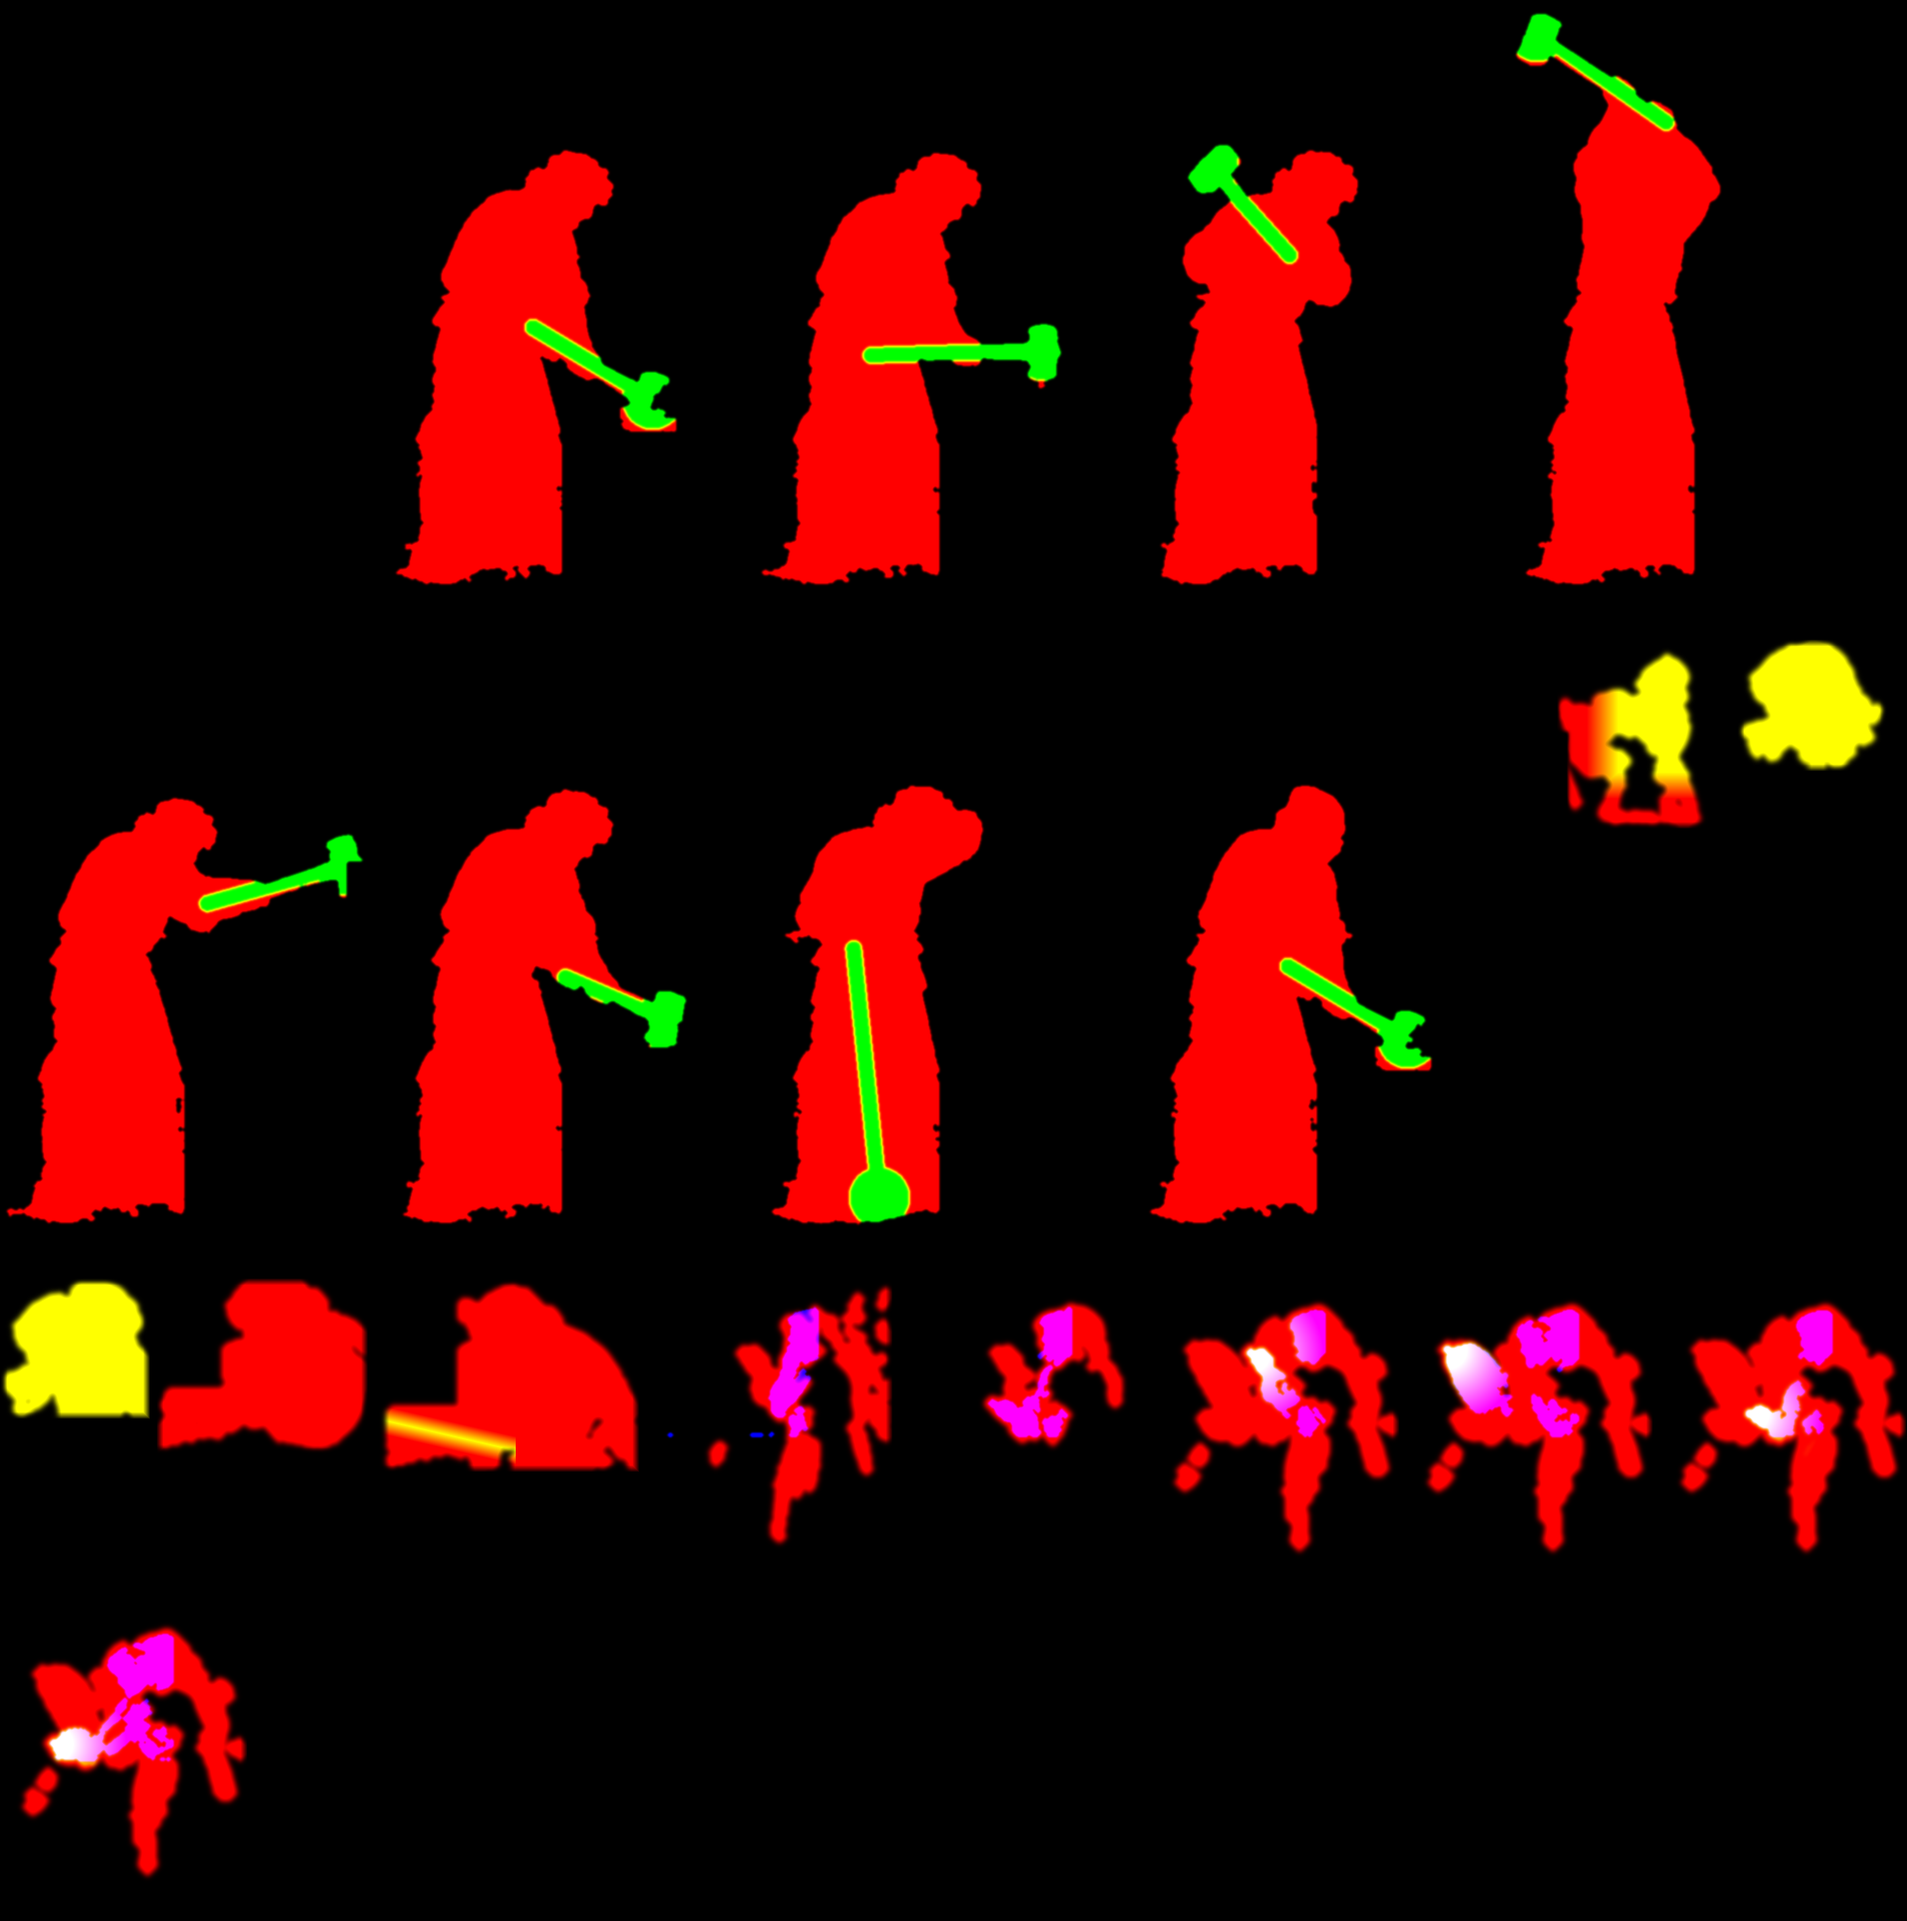
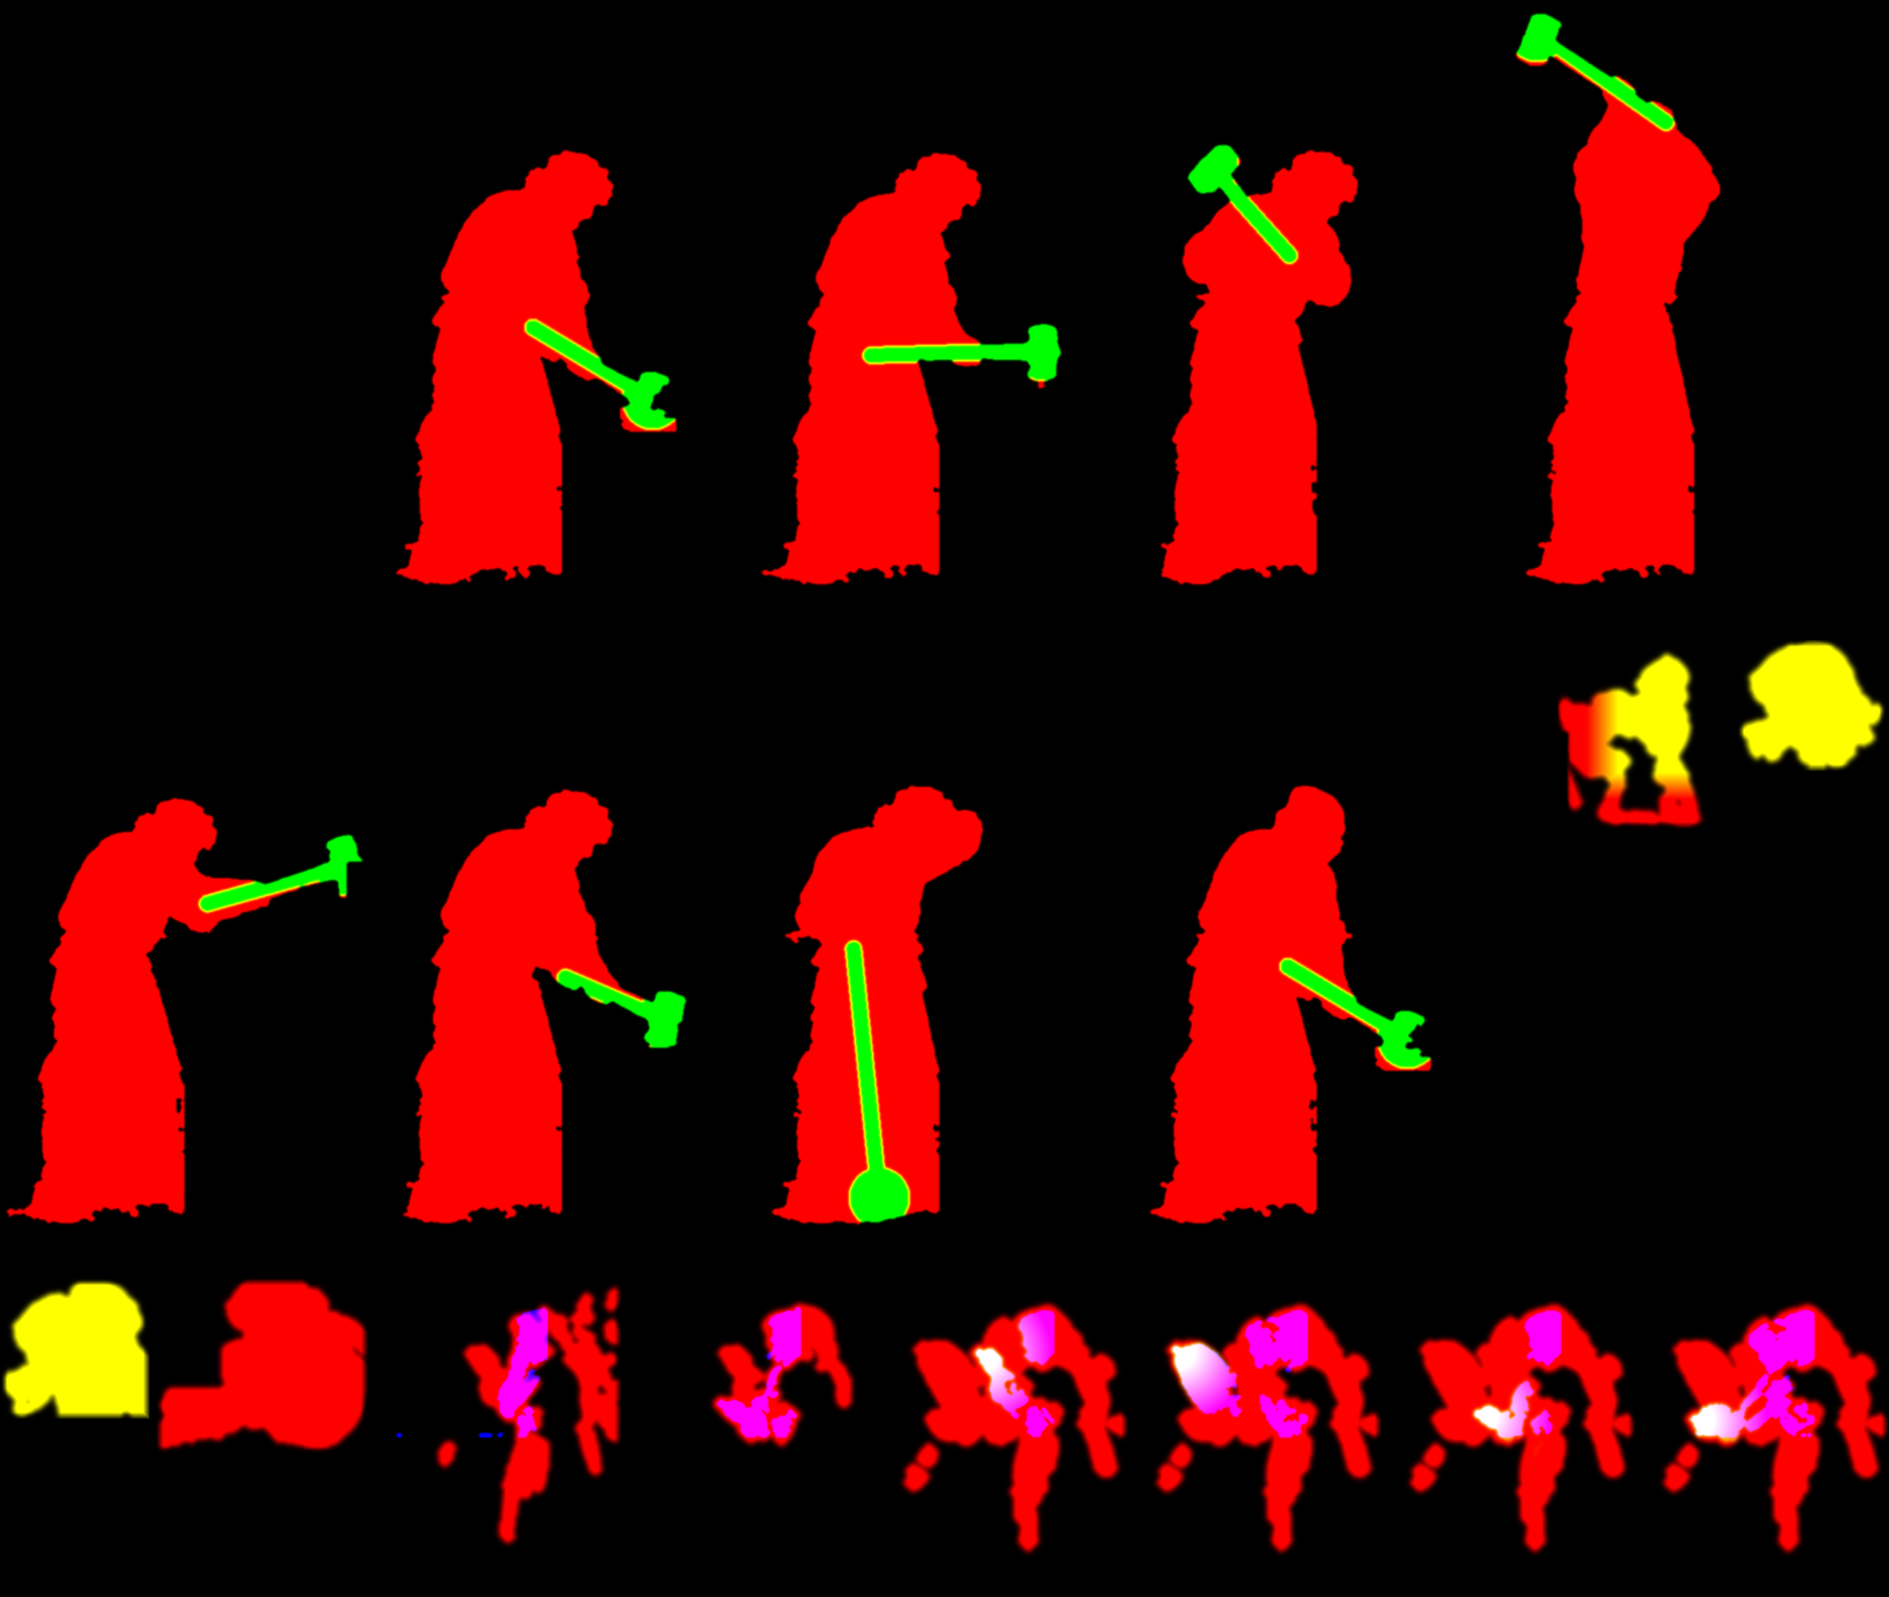
Startsidan: mätarens ansikte försvann när han sköt måttstocken — läget borttaget, han lutar sig fram och gungar i stället som en liten förskjutning av sin egen figur
matare-flyttar var målad från den första grundbilden, och hela överkroppen flyttade sig ~65 px dit där den bilden
har den gamla matematikerns stol. Masken uteslöt det området, så huvudet saknades medan läget visades. Lutningen görs
nu i shadern (uGung: huvud och axlar 4–7 px fram och ner, händer och knän står kvar) och kan inte tappa ansiktet.
Provat: ansiktet syns i 80 stickprov under 40 s (kritar, tittar på släggan, tittar upp mot stjärnfallet).

diff --git a/public/index.html b/public/index.html
@@ -1846,6 +1846,7 @@
     uniform vec4 uMeteor;           // stjärnfallet: start (xy), slut (zw)
     uniform vec3 uMeteorT;          // huvudets läge 0..1, ljus, svansen som dröjer kvar
     uniform vec4 uAnd[4];           // andning: punkt (xy), radie (z), hur mycket (w)
+    uniform vec4 uGung;             // mätarens överkropp: mitt (xy), förskjutning (zw), px
     uniform vec4 uDamm[18];         // x, y, radie, styrka
     uniform vec4 uFlis[14];         // x, y, storlek, styrka
     uniform vec2 uSpricka;          // hur långt (0..1), styrka
@@ -1908,6 +1909,12 @@
         vec2 d = (px - a.xy) / vec2(a.z * .75, a.z);
         float w = smoothstep(1., .45, length(d)) * step(px.y, a.y);
         p.y = a.y + (p.y - a.y) * (1. - a.w * w);
+      }
+      // Mätaren lutar sig fram mot måttstocken och tillbaka, och gungar lite medan han arbetar: huvud och
+      // axlar flyttas några px, mjukt avtagande mot händerna och knäna, som står kvar.
+      {
+        vec2 d = (px - uGung.xy) / vec2(80., 70.);
+        p -= uGung.zw * exp(-dot(d, d) * 1.6) * smoothstep(705., 660., px.y);
       }
       vec4 m = texture(uMask, vUv);
       vec2 q = p;
@@ -2272,14 +2279,22 @@
         as.nasta = t + slump(7, 13);
       }
     };
-    // Mätaren: flyttar måttstocken, drar kritstreck, tittar på slagen och upp mot stjärnfallet.
-    const ma = { nasta: slump(1, 3) };
+    // Mätaren: lutar sig fram över måttstocken, drar kritstreck, tittar på slagen och upp mot stjärnfallet.
+    // Lutningen är en förskjutning av hans egen överkropp (4–7 px fram och ner), aldrig en toning.
+    const ma = { nasta: slump(1, 3), lut: 0, lutFran: 0, lutTill: 0, lutStart: 0, lutDur: 1, lutHall: 0 };
     const styrMatare = (t) => {
-      if (!fig.matare.pose && t >= ma.nasta) {
-        if (Math.random() < .55) slot(fig.matare, "matare-flytta", 0, slump(.9, 1.3), slump(.6, 1.6), slump(.9, 1.3));
-        else slot(fig.matare, "matare-krita", 0, slump(.6, .9), slump(1.0, 2.0), slump(.6, .9));
+      if (!fig.matare.pose && t >= ma.nasta && t >= ma.lutHall) {
+        if (Math.random() < .5) {
+          ma.lutFran = ma.lut; ma.lutTill = 1; ma.lutStart = t; ma.lutDur = slump(.9, 1.3);
+          ma.lutHall = t + ma.lutDur + slump(1.2, 2.6);
+        } else slot(fig.matare, "matare-krita", 0, slump(.6, .9), slump(1.0, 2.0), slump(.6, .9));
         ma.nasta = t + slump(4.5, 7.5);
       }
+      if (ma.lutTill === 1 && t >= ma.lutHall) { ma.lutFran = ma.lut; ma.lutTill = 0; ma.lutStart = t; ma.lutDur = slump(.9, 1.2); }
+      ma.lut = ma.lutFran + (ma.lutTill - ma.lutFran) * mjukare(klamp((t - ma.lutStart) / ma.lutDur));
+      // Lutar sig fram (mot vänster och ner), och gungar lite i sin egen takt.
+      const g = Math.sin(t * .83) * 1.1 + Math.sin(t * 1.91 + 1.3) * .5;
+      gl.uniform4f(U.uGung, 1500, 600, -6 * ma.lut + g, 3.5 * ma.lut + .4 * Math.sin(t * 1.1));
     };
 
     // ── Matematikern vid tavlan ──
@@ -2468,8 +2483,8 @@
     };
     // Kritans handstil: Kalam (samma som i filmerna), annars datorns egen handstil.
     const typsnitt = document.fonts ? document.fonts.load('400 64px "Kalam"').catch(() => null) : Promise.resolve();
-    Promise.all([ladda(img.currentSrc || img.src), ladda("omslag/intro-lager.webp?v=584e770e"), ladda("omslag/intro-lager.png?v=33630862"),
-                 ladda("omslag/intro-glimt.png?v=ee1a49f5"), fetch("omslag/intro-scen.json?v=16ae32de").then((r) => r.json()), typsnitt])
+    Promise.all([ladda(img.currentSrc || img.src), ladda("omslag/intro-lager.webp?v=10dd680c"), ladda("omslag/intro-lager.png?v=679bc675"),
+                 ladda("omslag/intro-glimt.png?v=ee1a49f5"), fetch("omslag/intro-scen.json?v=154a2c4f").then((r) => r.json()), typsnitt])
       .then(([bild, lager, lagerM, glimt, data]) => {
         scen = data; bygg();
         prog = gl.createProgram();
@@ -2510,7 +2525,7 @@
     addEventListener("resize", () => { if (redo) mat(); });
     malningar.push(starta);
     // För granskningen (bildrutor i fast takt): stoppa den egna loopen och rita en given tid.
-    duk.scen = { rita1: (t) => rita1((t + T0) * 1000), pausa: () => { redo = false; }, sl, mt, met, fig, as, ma };
+    duk.scen = { rita1: (t) => rita1((t + T0) * 1000), pausa: () => { redo = false; }, sl, mt, met, fig, as, ma, slot: (...x) => { tNu = x.pop(); return slot(...x); } };
   };
   // Var målningen ligger i fönstret. På datorn: i mitten, men inte så att stenhuggaren (x 845 i målningen,
   // 1672 bred) hamnar bakom texten; i fönster nära 4:3 flyttas den åt höger (1024x768: skjortan låg bakom

diff --git a/verktyg/hitta-scen.py b/verktyg/hitta-scen.py
@@ -20,7 +20,7 @@ Utdata i public/omslag/:
   intro.jpg          grundbilden B (1672x941). Syns ocksa utan WebGL.
   intro-lager.webp   lagena, packade i en karta.
   intro-lager.png    samma karta, masker: R = det som tonas (figuren), G = det som vrids eller
-                     flyttas (slaggan, huvudet, handen med kritan, matstickan), B = var figuren
+                     flyttas (slaggan, huvudet, handen med kritan), B = var figuren
                      tacker tavlan (kritan ritas inte dar).
   intro-glimt.png    stjarnorna (R = stjarna, G = fas).
   intro-scen.json    rutorna i kartan och de uppmatta punkterna.
@@ -67,7 +67,6 @@ LAGEN = {
     "matare-titta": ("matare-tittar", "A", (1430, 540, 1600, 690), (1515, 625), 15, (0, 0)),
     "matare-upp": ("upp-matare", "A", (1430, 530, 1600, 690), (1510, 640), 22, (0, 0)),
     "matare-krita": ("kritar", "A", (1360, 560, 1600, 760), (0, 0), 0, (0, 0)),
-    "matare-flytta": ("matare-flyttar", "A", (1340, 540, 1640, 760), (0, 0), 0, (-26, 0)),
     "matem-tanker": ("m-tanker-2", "B", (1250, 330, 1530, 690), (0, 0), 0, (0, 0)),
     "matem-upp": ("upp-matematiker", "B", (1250, 330, 1530, 690), (0, 0), 0, (0, 0)),
 }
@@ -75,6 +74,9 @@ LAGEN = {
 # bara kring honom, inte vid lyktan och inte pa matstickans man.
 OMRADE = {"matem": lambda x, y: (x >= 1272) & (y < 640) & ~((x > 1438) & (y > 546)),
           "matare": lambda x, y: (x >= 1360) & (y >= 540) & ~((x < 1440) & (y < 690))}
+# matare-flyttar.png anvands inte: den ar malad fran A och hela overkroppen flyttade sig ~65 px, dit dar A har
+# den gamla matematikerns stol och B tavlans vagg. Med huvudet utanfor masken forsvann ansiktet (Rickard
+# 2026-09-26). Hans lutning gors i stallet som en liten forskjutning i shadern.
 # Astronomen: teleskopet och stativet star still; hander och okular tonas bara.
 STILLA = {"astronom": lambda x, y: (x < 1305) | ((x < 1316) & (y > 104))}
 BARA_TONA = {"astronom": lambda x, y: np.maximum(np.clip((1372 - x) / 36, 0, 1), np.clip((y - 150) / 30, 0, 1))}
@@ -161,7 +163,7 @@ def main():
         b = las(bild)[b0:b1, a0:a1]
         d = ndimage.uniform_filter(np.abs(b - grund[ref][b0:b1, a0:a1]).sum(-1), 5)
         yy2, xx2 = np.mgrid[b0:b1, a0:a1]
-        omr = OMRADE.get(namn.split("-")[0], lambda x, y: True)(xx2, yy2)
+        omr = OMRADE.get(namn, OMRADE.get(namn.split("-")[0], lambda x, y: True))(xx2, yy2)
         if namn.startswith("matem-"):
             omr &= xx2 >= 1325        # tanker och upp: handen lamnar tavlan, bara kroppen andras
         m = mjuk(rensa((d > 30) & omr, 60), 6, 3.0) * kantton(b1 - b0, a1 - a0)
@@ -171,11 +173,8 @@ def main():
         v = m.copy() if (grader or tuple(flytt) != (0, 0)) else np.zeros_like(m)
         if figur in BARA_TONA:
             v *= 1 - BARA_TONA[figur](xx2, yy2)
-        if namn == "matare-flytta":
-            # Bara matstickan och handerna flyttas: bandet langs stickan pa blockets ovansida.
-            v *= np.clip(1 - np.abs(yy2 - (706 + (xx2 - 1375) * 0.23)) / 16, 0, 1) * (xx2 < 1500)
         bitar.append((namn, b, m, v, np.zeros_like(m)))
-        lagen[namn] = {"kalla": [a0, b0, a1 - a0, b1 - b0], "vrid": [vp[0], vp[1], grader], "flytt": list(flytt)}
+        lagen[namn] = {"kalla": [a0, b0, a1 - a0, b1 - b0], "vrid": [vp[0], vp[1], grader], "flytt": [float(f) for f in flytt]}
 
     # Matematikern vid tavlan: skrivlagena.
     a0, b0, a1, b1 = SKRIV_RUTA

diff --git a/assets/intro-scen/prompter.md b/assets/intro-scen/prompter.md
@@ -75,3 +75,10 @@ Resultat omgang 2 (19:0x): alla pixelexakta utom m-tanker-1 (1671 bred, foljde i
 (forskjuten 1 px, rattas i hitta-scen.py). Chattar: m-mitt /c/6ab7ff5b-30c4-83ed-a57f-e931d7b6aeec, m-nere /c/6ab7ff65-43b0-83eb-84a5-aba8b4e01061,
 m-nere-mitt /c/6ab7ff70-212c-83ed-990b-a30c5a4a8f3d, m-tanker /c/6ab7ff7b-3274-83eb-939f-adf434a0dc60, upp-slaggare /c/6ab80031-270c-83eb-969e-536719363b90,
 upp-matematiker /c/6ab8003d-4aa8-83eb-99ff-029690677867, upp-matare /c/6ab80044-6668-83eb-898a-d7f14619af19, matare-flyttar /c/6ab80078-1c6c-83ed-970b-77a204c339af.
+
+## Rattelse (Rickard 2026-09-26: "ansiktet forsvinner pa honom som mater")
+matare-flyttar var gjord pa intro-grund-a; hans huvud lutar ~65 px at vanster, dit dar A har den gamla matematikerns
+stol och B har tavlans vagg. Gors om som andring av grund2-b:
+- matare-flyttar-b (andring av grund2-b): samma text som matare-flyttar.
+Kunde inte goras 2026-09-26 ~20:05: bildgransen i Plus var nadd ("aterstalls i morgon kl. 10:39"). Losningen i stallet:
+matare-flyttar (A) anvands bara for handerna och stickan; huvudet och overkroppen ar grundbildens.
